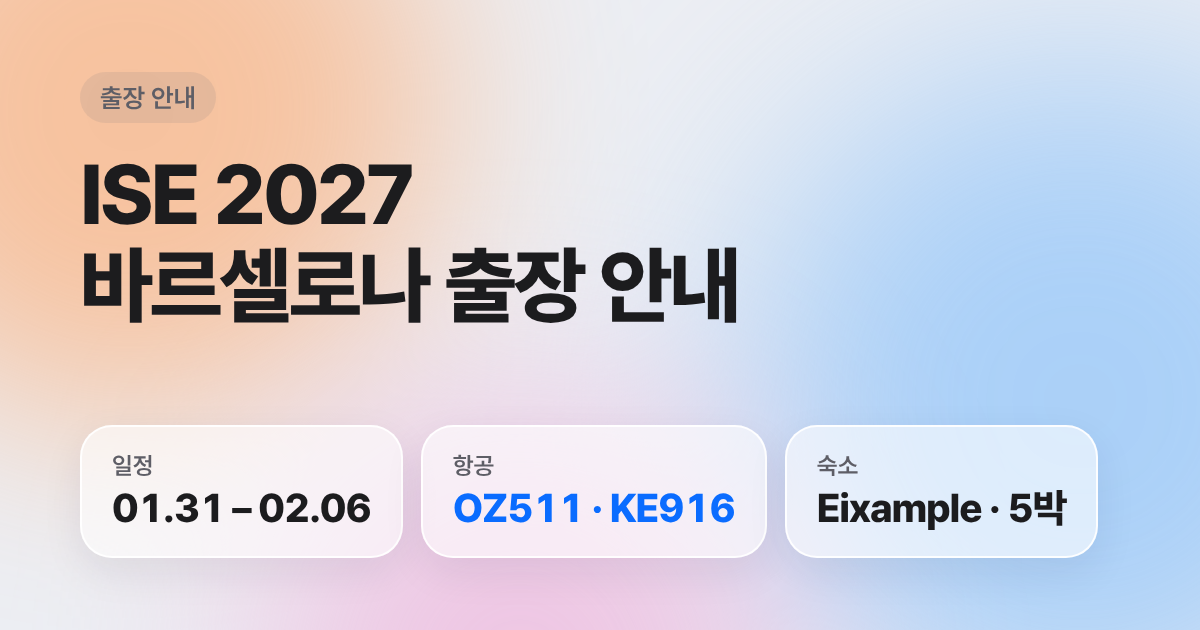
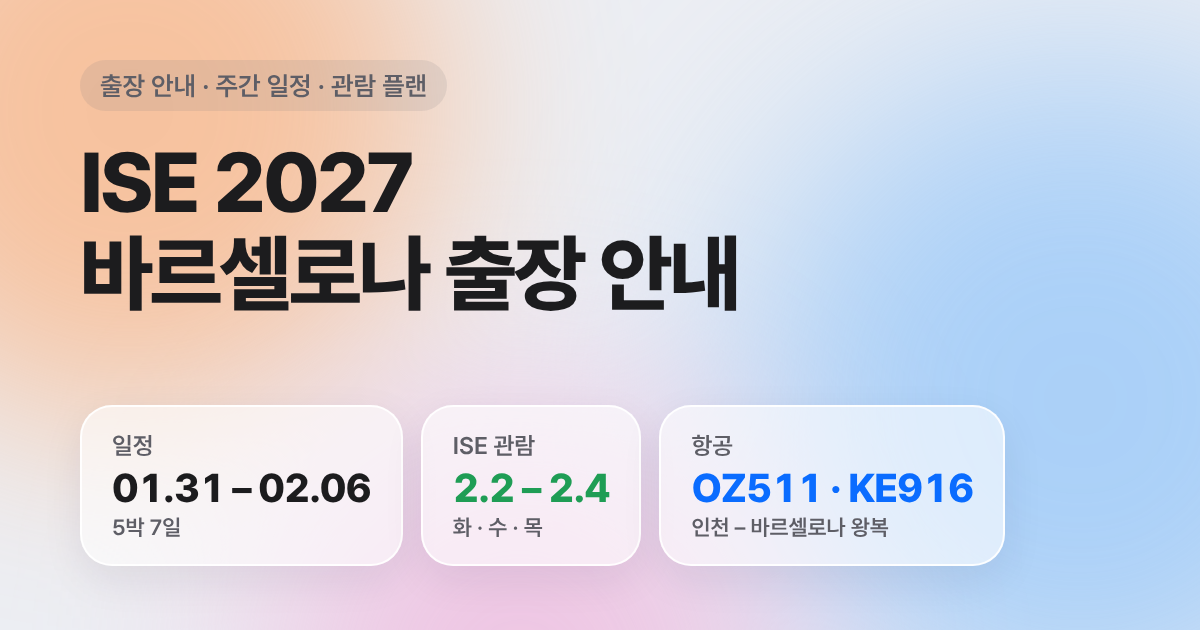
Refresh link preview image and description
Claude-Session: https://claude.ai/code/session_012m4qF4C9gcLkY6hpkZGVV5

diff --git a/index.html b/index.html
@@ -4,13 +4,13 @@
 <meta charset="utf-8">
 <meta name="viewport" content="width=device-width, initial-scale=1, viewport-fit=cover">
 <title>ISE 2027 바르셀로나 출장 안내</title>
-<meta name="description" content="2027.01.31 – 02.06 · 항공권, 좌석, 숙소, ISE 등록, 준비물 안내">
+<meta name="description" content="2027.01.31 – 02.06 (5박 7일) · 주간 일정, 항공권, 숙소, ISE 관람 플랜, 준비물 안내">
 <meta property="og:type" content="website">
 <meta property="og:site_name" content="ISE 2027 출장 안내">
 <meta property="og:title" content="ISE 2027 바르셀로나 출장 안내">
-<meta property="og:description" content="2027.01.31 – 02.06 · 항공권, 좌석, 숙소, ISE 등록, 준비물 안내">
+<meta property="og:description" content="2027.01.31 – 02.06 (5박 7일) · 주간 일정, 항공권, 숙소, ISE 관람 플랜, 준비물 안내">
 <meta property="og:url" content="https://hkkim0454.github.io/ise/">
-<meta property="og:image" content="https://hkkim0454.github.io/ise/og.png">
+<meta property="og:image" content="https://hkkim0454.github.io/ise/og.png?v=2">
 <meta property="og:image:width" content="1200">
 <meta property="og:image:height" content="630">
 <meta property="og:locale" content="ko_KR">
@@ -351,7 +351,7 @@
   <header>
     <div class="chips">
       <span class="chip">출장 안내</span>
-      <span class="chip num" id="updated">최종 수정 2026.11.23 10:26</span>
+      <span class="chip num" id="updated">최종 수정 2026.11.23 10:56</span>
     </div>
     <h1>ISE 2027 바르셀로나 출장 안내</h1>
     <p class="lead">항공권 구매와 참가 준비 사항을 아래와 같이 안내드립니다.</p>
